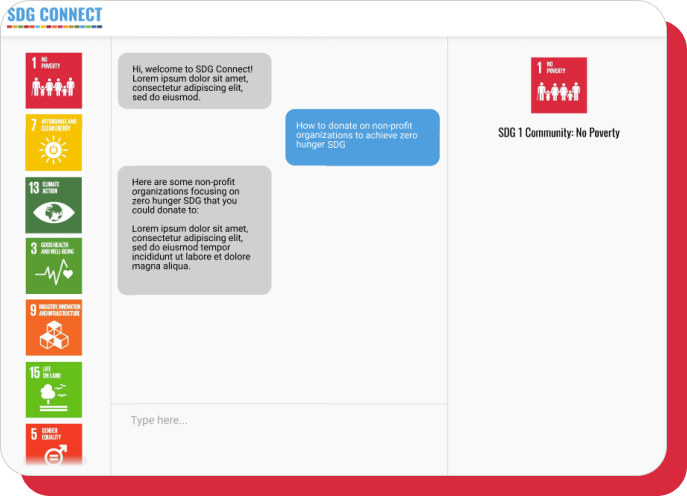
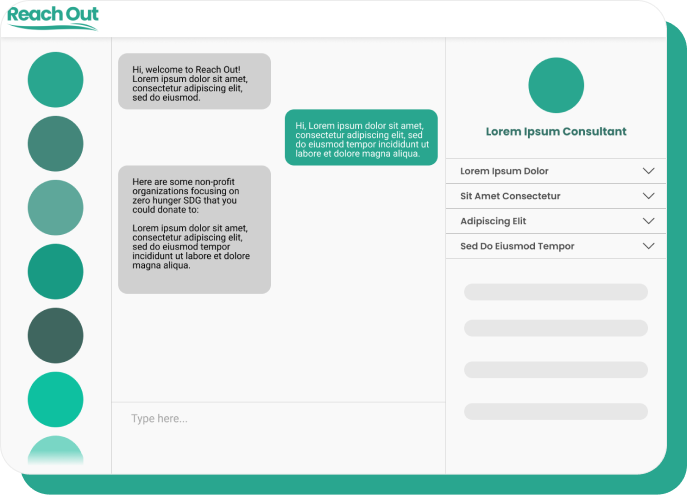
Revised colors and assets

diff --git a/index.html b/index.html
@@ -1,7 +1,7 @@
 <!DOCTYPE html>
 <html lang="en">
 <head>
-  <title>Name of Website Here</title>
+  <title>Reach Out</title>
 
   <meta charset="UTF-8">
   <meta http-equiv="X-UA-Compatible" content="IE=edge">
